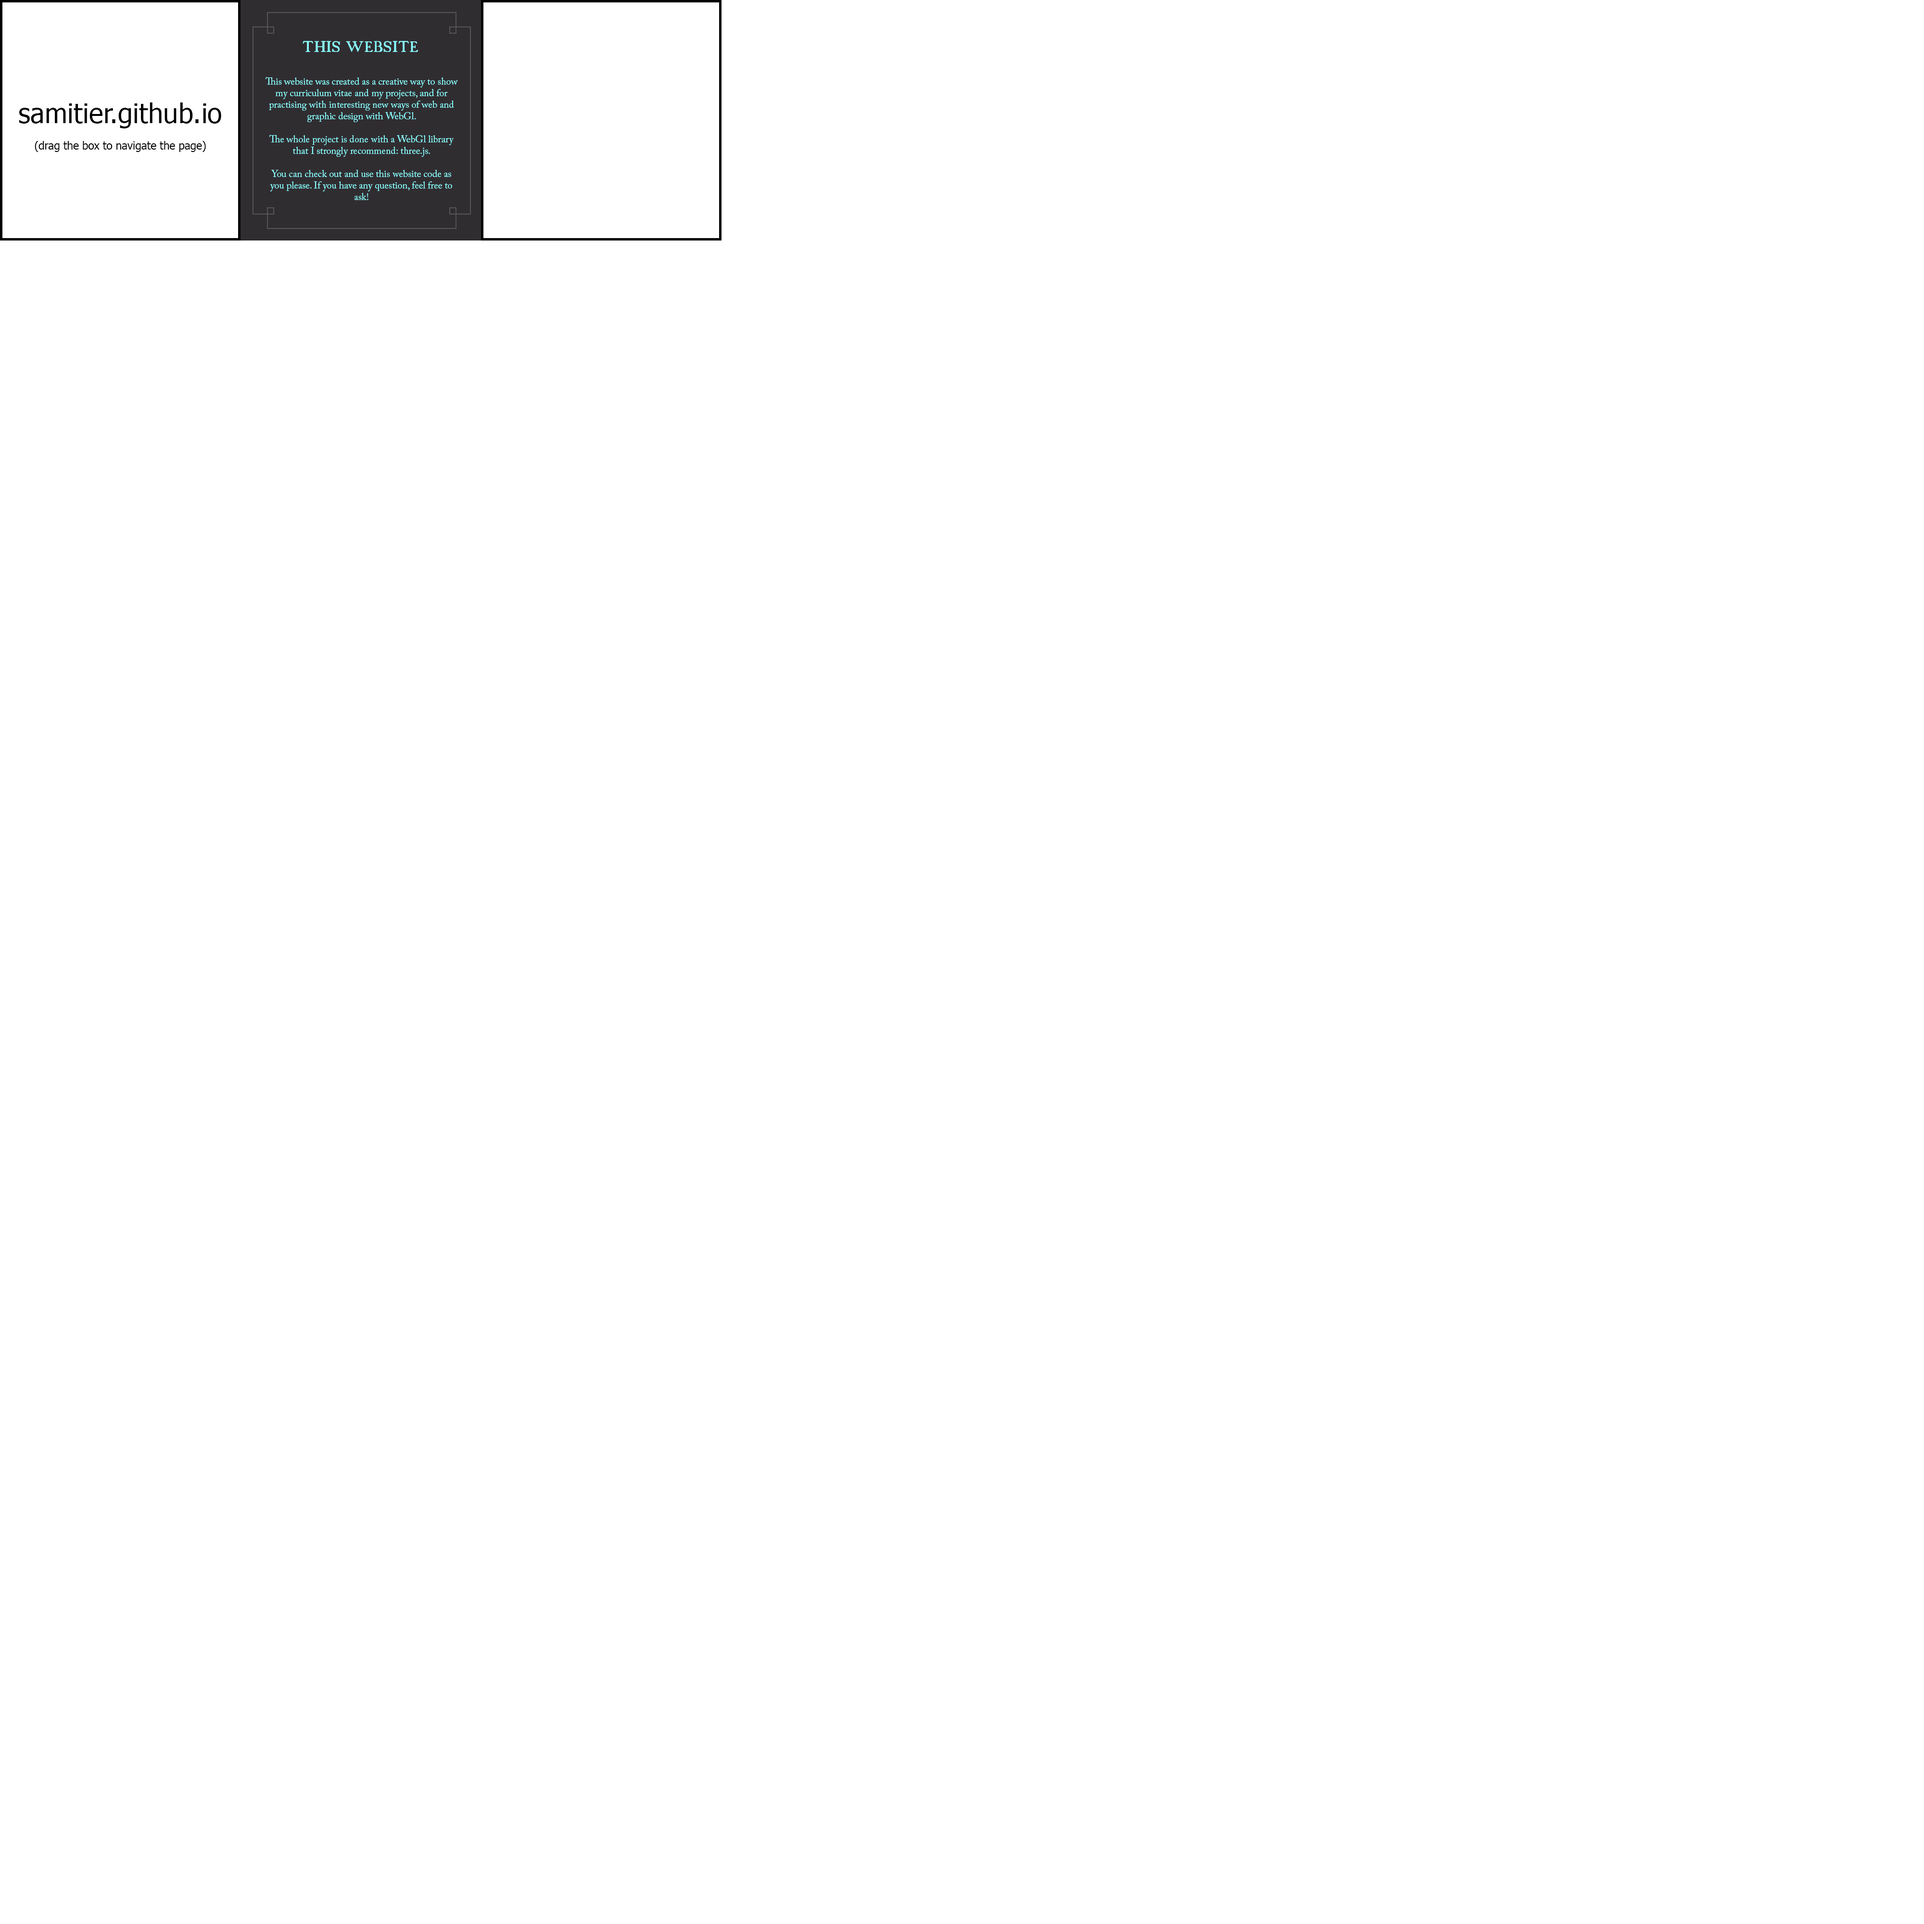
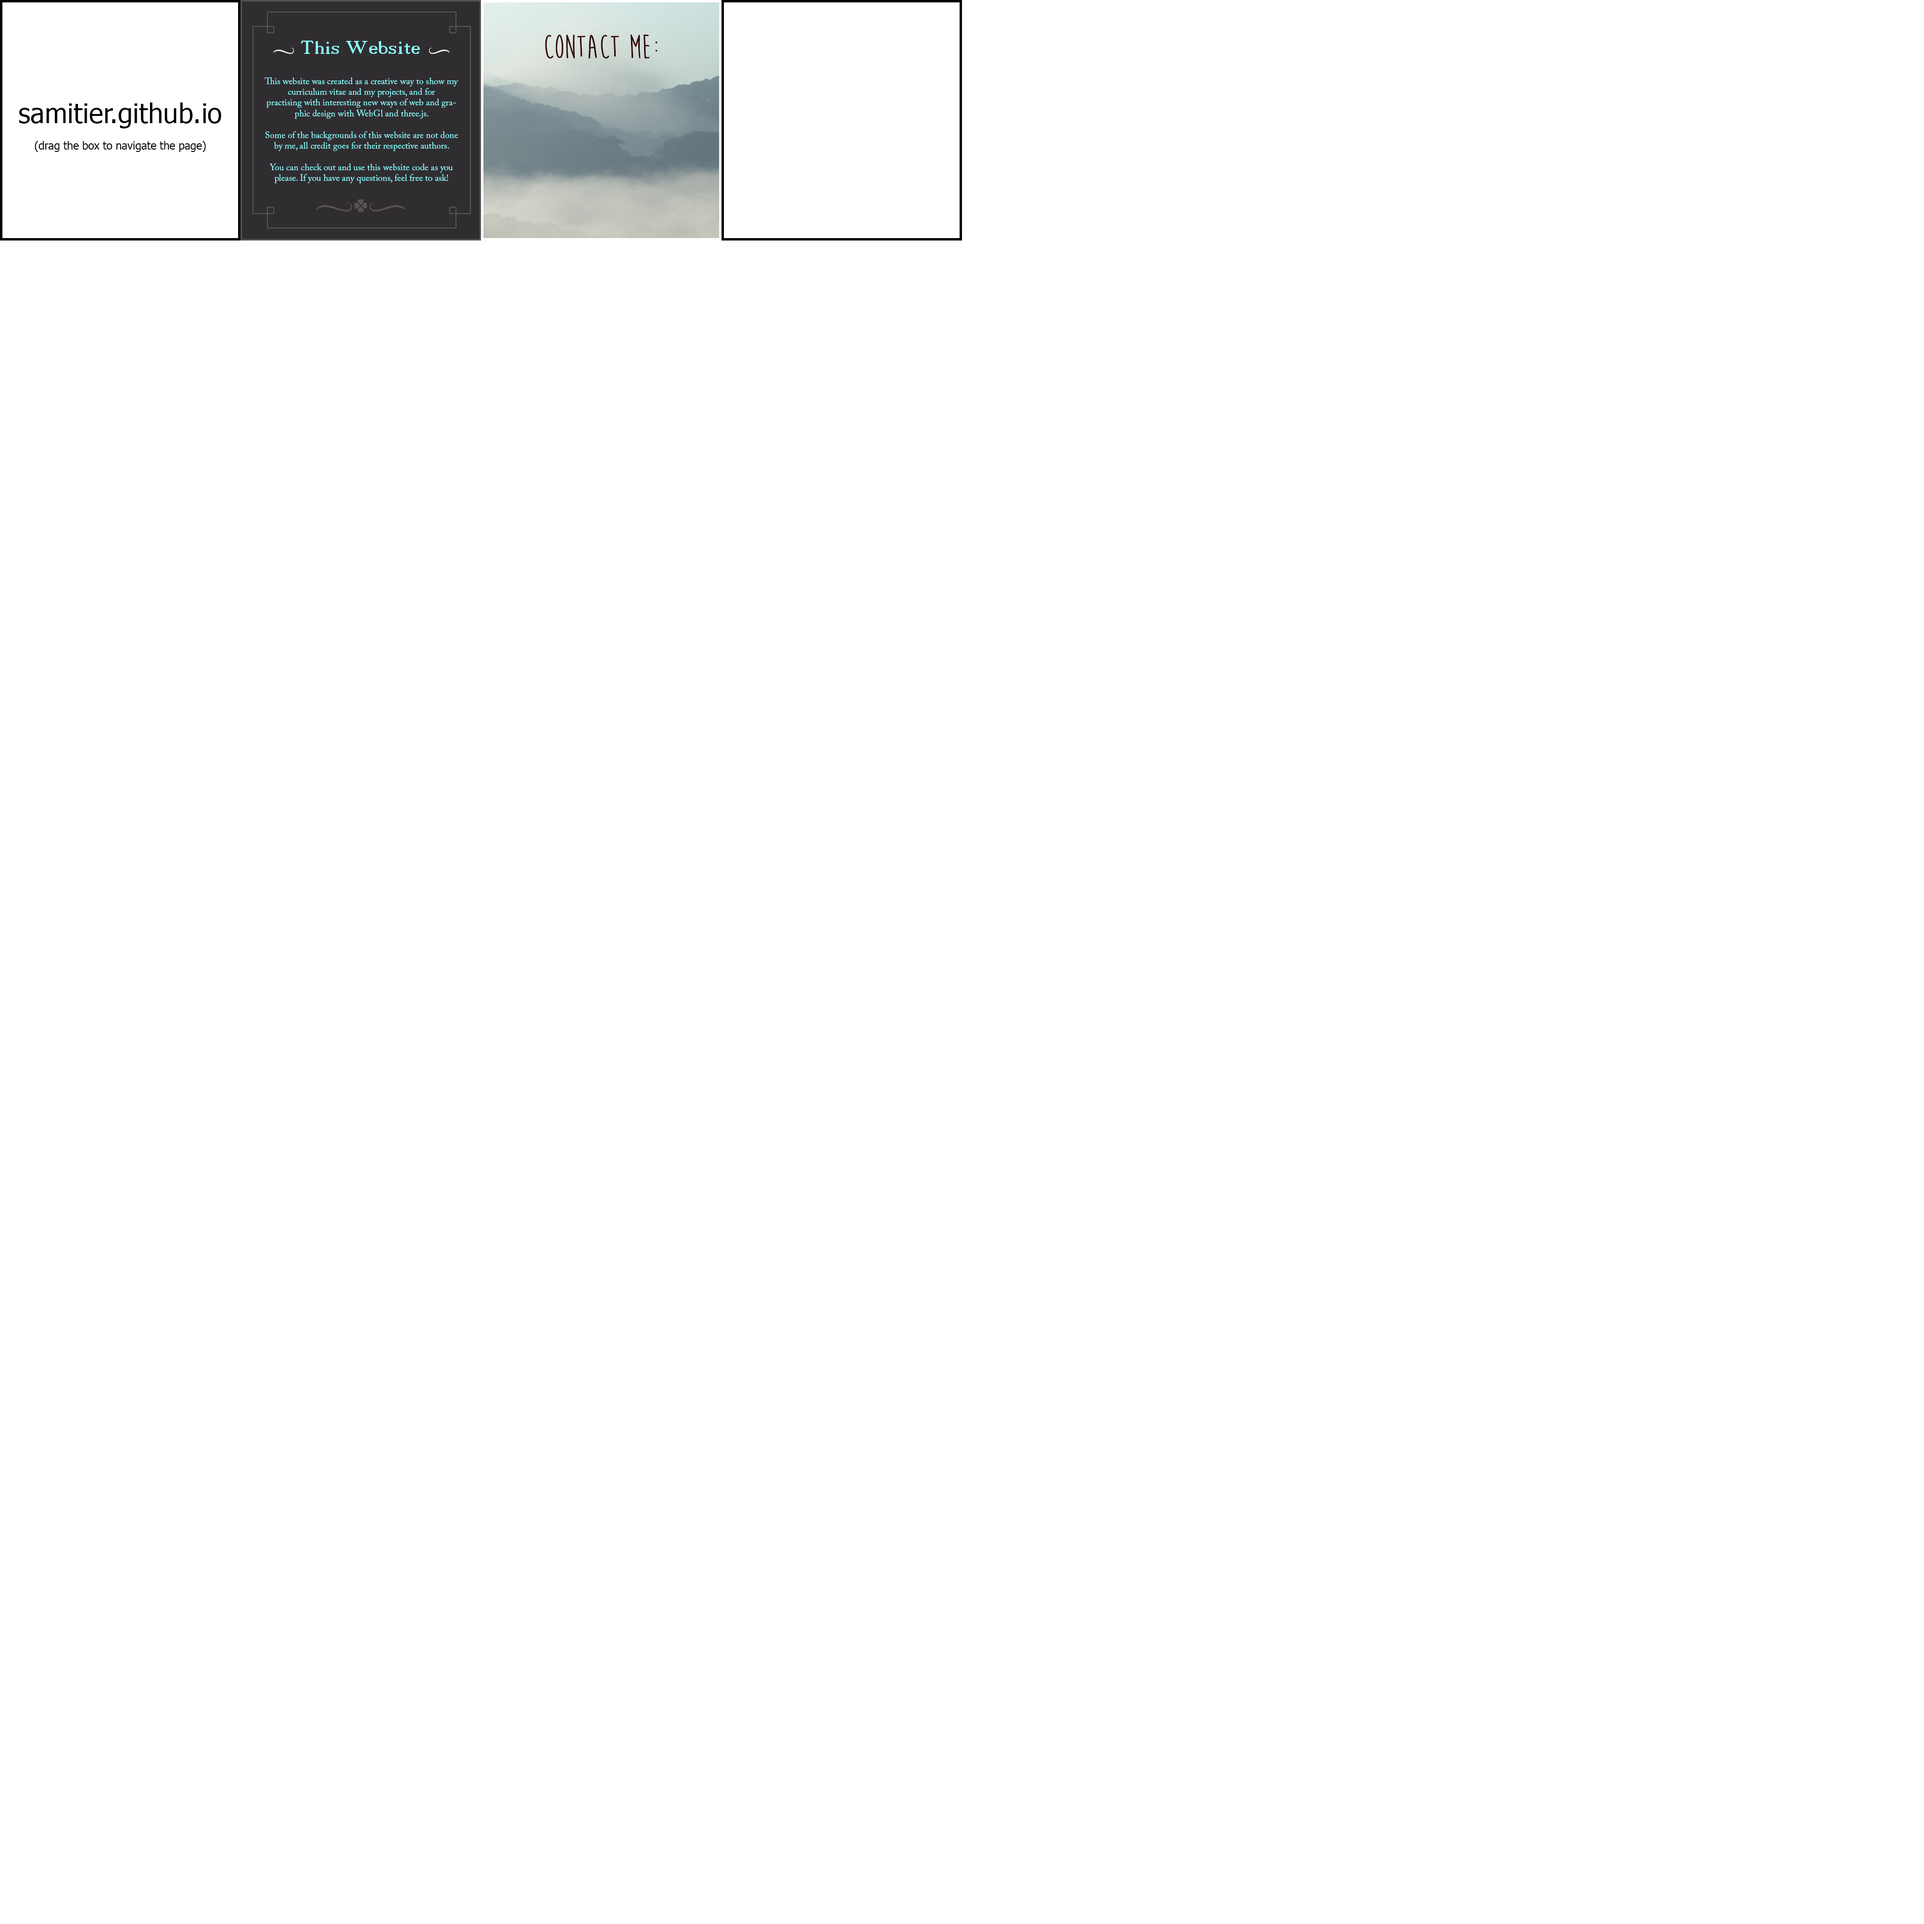
backgrounds deforming fixed
first version contact page added

Changed region(s): [[0.125, 0.0, 0.375, 0.125]]

diff --git a/js/main.js b/js/main.js
@@ -16,21 +16,23 @@ function init() {
       background.material.depthTest = false;
       background.material.depthWrite = false;
       background2 = new THREE.Mesh(
-         new THREE.PlaneGeometry(2, 2, 0),
+         new THREE.PlaneGeometry(2, 2, 0), //16,9
          new THREE.MeshBasicMaterial({map: bkgMain})
       );
       background2.material.depthTest = false;
       background2.material.depthWrite = false;
       backgroundScene = new THREE.Scene();
-      backgroundCam = new THREE.Camera();
+      var width = window.innerWidth/1024; if(width>1) width = 1;
+      var height =  window.innerHeight/1024; if(height>1) height =1;
+      backgroundCam = new THREE.OrthographicCamera(-width ,width,1, -height*height, 0.1, 5 );
+      backgroundCam.position.z = 1;
       backgroundScene.add(backgroundCam);
       backgroundScene.add(background);
       backgroundScene.add(background2);
 
-
       //CUBE
       scene = new THREE.Scene();
-      camera = new THREE.PerspectiveCamera( 75, window.innerWidth / window.innerHeight, 0.1, 1000 );
+      camera = new THREE.PerspectiveCamera( 75, window.innerWidth / window.innerHeight, 0.1, 5);
       camera.position.z = 1.4;
       renderer = new THREE.WebGLRenderer();
       renderer.setSize( window.innerWidth, window.innerHeight );
@@ -193,6 +195,11 @@ function onTouchEnd( event ) {
 }
 
 function onResize() {
+   var width = window.innerWidth/1024;  if(width>1) width = 1;
+   var height =  window.innerHeight/1024;  if(height>1) height =1;
+   backgroundCam.left = -width; backgroundCam.right = width;
+   backgroundCam.top = 1; backgroundCam.bottom = -height*height;
+   backgroundCam.updateProjectionMatrix();
    camera.aspect = window.innerWidth / window.innerHeight;
    camera.updateProjectionMatrix();
    renderer.setSize( window.innerWidth, window.innerHeight );

diff --git a/js/pages.js b/js/pages.js
@@ -1,13 +1,13 @@
 var uv     = { main : [new THREE.Vector2(0, .875), new THREE.Vector2(.125, .875), new THREE.Vector2(.125, 1),new THREE.Vector2(0, 1)],
-               website : [new THREE.Vector2(.125, .875), new THREE.Vector2(.250, .875), new THREE.Vector2(.250, 1),new THREE.Vector2(.125, 1)],
+               website : [new THREE.Vector2(.125, .875), new THREE.Vector2(.25, .875), new THREE.Vector2(.25, 1),new THREE.Vector2(.125, 1)],
                contact : [new THREE.Vector2(.250, .875), new THREE.Vector2(.375, .875), new THREE.Vector2(.375, 1),new THREE.Vector2(.250, 1)],
-               me : [new THREE.Vector2(.250, .875), new THREE.Vector2(.375, .875), new THREE.Vector2(.375, 1),new THREE.Vector2(.250, 1)],
-               projects : [new THREE.Vector2(.250, .875), new THREE.Vector2(.375, .875), new THREE.Vector2(.375, 1),new THREE.Vector2(.250, 1)]
+               me : [new THREE.Vector2(.375, .875), new THREE.Vector2(.500, .875), new THREE.Vector2(.500, 1),new THREE.Vector2(.375, 1)],
+               projects : [new THREE.Vector2(.375, .875), new THREE.Vector2(.500, .875), new THREE.Vector2(.500, 1),new THREE.Vector2(.375, 1)]
 };
 
-var bkgMain = THREE.ImageUtils.loadTexture( 'img/bkg/bkg1.png' );
-var bkgWebsite = THREE.ImageUtils.loadTexture( 'img/bkg/bkg3.png');
-var bkgContact = THREE.ImageUtils.loadTexture( 'img/bkg/bkg2.jpg');
+var bkgMain = THREE.ImageUtils.loadTexture( 'img/bkg/bkgmain.png' );
+var bkgWebsite = THREE.ImageUtils.loadTexture( 'img/bkg/bkgweb.png');
+var bkgContact = THREE.ImageUtils.loadTexture( 'img/bkg/bkgcontact.png');
 var bkgProva1 = THREE.ImageUtils.loadTexture( 'img/bkg/bkg2.png');
 var bkgProva2 = THREE.ImageUtils.loadTexture( 'img/bkg/bkg3.jpg');
 
